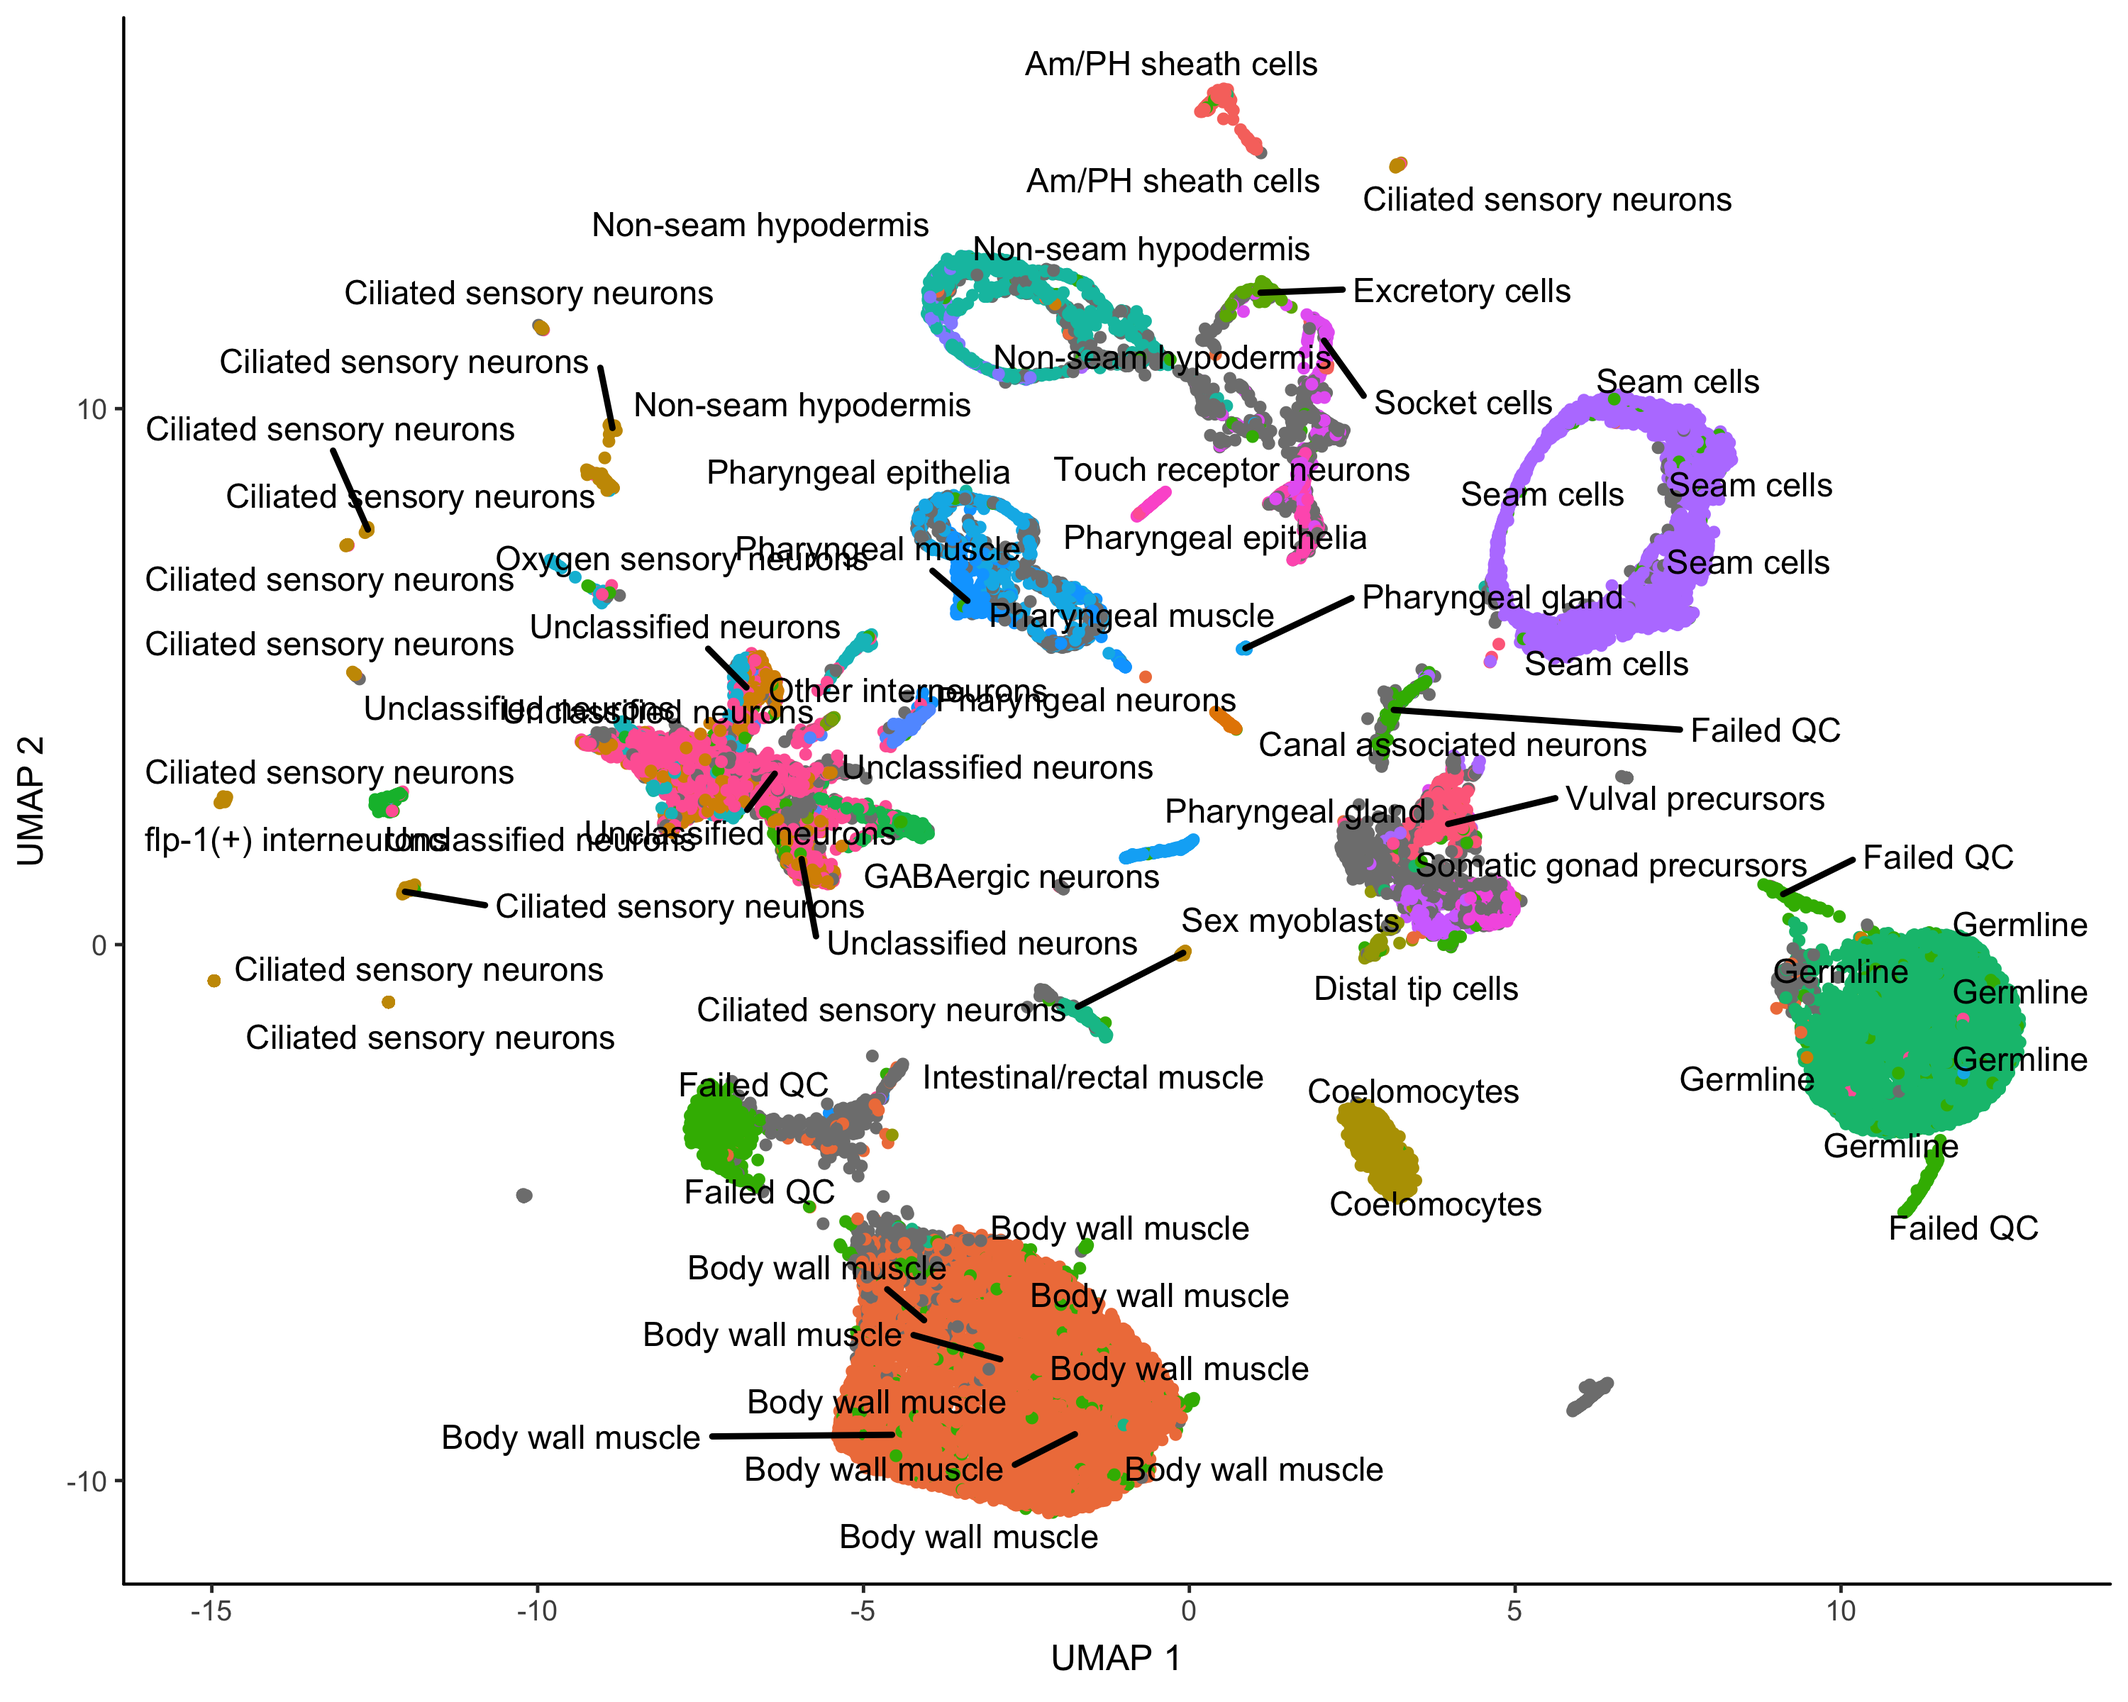
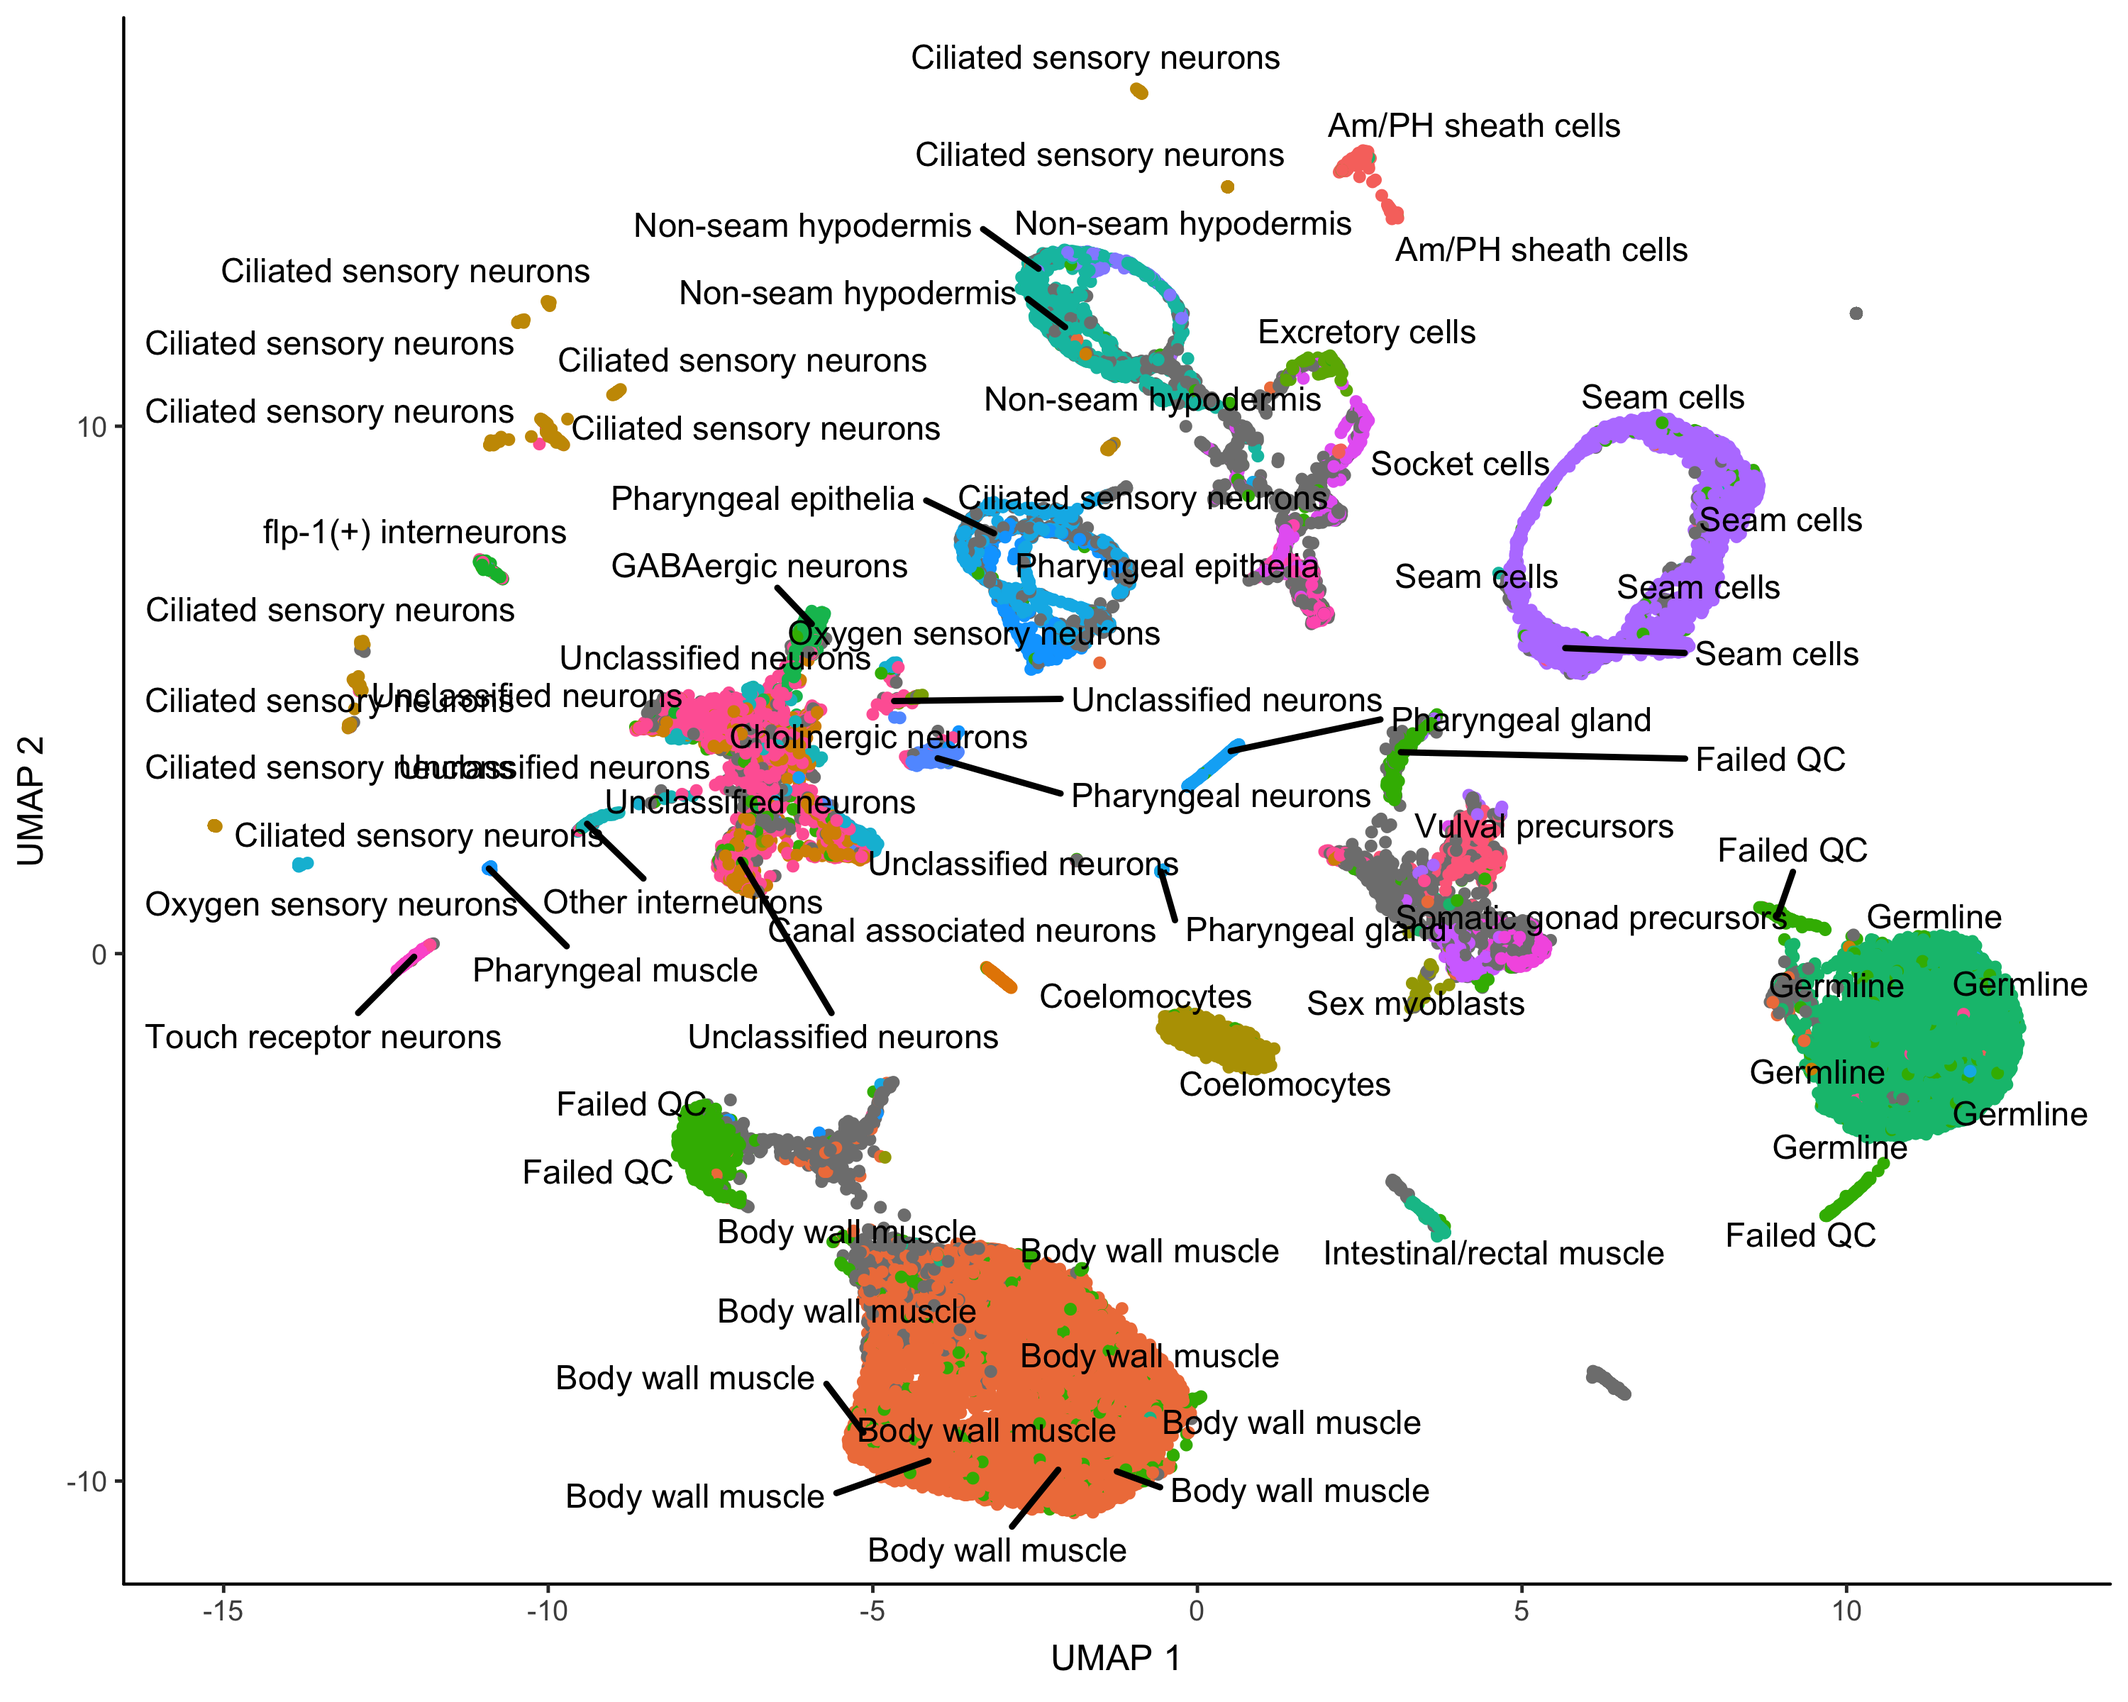
website updates related to top_markers() revamp

diff --git a/monocle3_new_docs.html b/monocle3_new_docs.html
@@ -15,14 +15,13 @@ tags: [monocle, manual, vignette]
   <body  data-spy= "scroll" data-target= "#toc">
     {% include header.html %}
 
-<div class= "container">
-<div class= "row">
-<!-- sidebar, which will move to the top on a small screen -->
-<div class= "col-sm-4">
-  <nav id= "toc" data-spy= "affix" data-toggle= "toc"></nav>
-</div>
-<!-- main content area -->
-<div class= "col-sm-8">
+    <div class= "container">
+    <div class= "row">
+    <div class= "col-sm-4">
+      <nav id= "toc" data-spy= "affix" data-toggle= "toc"></nav>
+    </div>
+    <!-- main content area -->
+    <div class= "col-sm-8">
 
 <h2>Introduction</h2>
 
@@ -427,11 +426,23 @@ plot_cells(cds, color_cells_by="cao_cell_type")
 <div class= "text-center">
   <img src= "{{site.baseurl}}/images/manual_images/L2_umap_color_by_cao_type.png" width= 760>
 </div>
+
 <p>You can see that many of the cell types land very close to one another in the UMAP plot.</p>
 
 <p>Except for a few cases described in a moment, <code>color_cells_by</code> can be the name of any column in <code>colData(cds)</code>. Note that when <code>color_cells_by</code> is a categorical variable, labels are added to the plot, with each label positioned roughly in the middle of all the cells that have that label.</p>
 
+<p>You can also color your cells according to how much of a gene or set of genes they express:</p>
 
+{% highlight R %}
+plot_cells(cds, genes=c("cpna-2", "egl-21", "ram-2", "inos-1"))
+{% endhighlight %}
+
+
+
+
+<div class= "text-center">
+    <img src= "{{site.baseurl}}/images/manual_images/L2_umap_gene_markers.png" width= 760>
+  </div>
 
 <div class= "panel panel-info">
 <div class= "panel-heading">
@@ -553,21 +564,23 @@ marker_test_res = top_markers(cds, group_cells_by="partition", reference_cells=1
 <p></p>The data frame <code>marker_test_res</code> contains a number of metrics for how specifically expressed each gene is in each partition. We could group the cells according to cluster, partition, or any categorical variable in <code>colData(cds)</code>. You can rank the table according to one or more of the specificity metrics and take the top gene for each cluster. For example, <code>pseudo_R2</code> is one such measure. We can rank markers according to <code>pseudo_R2</code> like this:
 
 {% highlight R %}
-top_specific_markers = marker_test_res %>% 
-    filter(marker_test_q_value < 0.05 & pseudo_R2 > 0.01) %>%
-    group_by(cell_group) %>% 
+top_specific_markers = marker_test_res %>%
+    filter(fraction_expressing >= 0.10) %>%
+    group_by(cell_group) %>%
     top_n(1, pseudo_R2)
 
 top_specific_marker_ids = unique(top_specific_markers %>% pull(gene_id))
+
 {% endhighlight %}
 
 <p>Now, we can plot the expression and fraction of cells that express each marker in each group with the <code>plot_genes_by_group</code> function:</p>
 
 {% highlight R %}
-plot_genes_by_group(cds, 
-                    top_specific_marker_ids, 
-                    group_cells_by="partition", 
-                    ordering_type="cluster_row_col")
+plot_genes_by_group(cds,
+                    top_specific_marker_ids,
+                    group_cells_by="partition",
+                    ordering_type="maximal_on_diag",
+                    max.size=3)
 {% endhighlight %}
 
 <div class= "text-center">
@@ -576,17 +589,18 @@ plot_genes_by_group(cds,
 
 <p>It's often informative to look at more than one marker, which you can do just by changing the first argument to <code>top_n()</code>:</p>
 {% highlight R %}
-top_specific_markers = marker_test_res %>% 
-    filter(marker_test_q_value < 0.05 & pseudo_R2 > 0.01) %>%
-    group_by(cell_group) %>% 
+top_specific_markers = marker_test_res %>%
+    filter(fraction_expressing >= 0.10) %>%
+    group_by(cell_group) %>%
     top_n(3, pseudo_R2)
 
 top_specific_marker_ids = unique(top_specific_markers %>% pull(gene_id))
 
-plot_genes_by_group(cds, 
-                    top_specific_marker_ids, 
-                    group_cells_by="partition", 
-                    ordering_type="cluster_row_col")
+plot_genes_by_group(cds,
+                    top_specific_marker_ids,
+                    group_cells_by="partition",
+                    ordering_type="cluster_row_col",
+                    max.size=3)
 {% endhighlight %}
 
 <div class= "text-center">
@@ -717,10 +731,11 @@ colData(cds_subset)$assigned_cell_type = dplyr::recode(colData(cds_subset)$assig
 plot_cells(cds_subset, group_cells_by="cluster", color_cells_by="assigned_cell_type")
 {% endhighlight %}
 
-<p>Now we can transfer the annotations from the <code>cds_subset</code> object back to the full dataset:</p>
+<p>Now we can transfer the annotations from the <code>cds_subset</code> object back to the full dataset. We'll also filter out low-quality cells at this stage</p>
 
 {% highlight R %}
 colData(cds)[colnames(cds_subset),]$assigned_cell_type = colData(cds_subset)$assigned_cell_type
+cds = cds[,colData(cds)$assigned_cell_type != "Failed QC" | is.na(colData(cds)$assigned_cell_type )]
 plot_cells(cds, group_cells_by="partition", color_cells_by="assigned_cell_type", labels_per_group=5)
 {% endhighlight %}
 
@@ -740,57 +755,89 @@ assigned_type_marker_test_res = top_markers(cds,
                                             cores=8)
 {% endhighlight %}
 
+<p>Next, filter these markers according to how stringent you want to be:</p>
+{% highlight R %}
+# Require that markers have at least JS specificty score > 0.5 and 
+# be significant in the logistic test for identifying their cell type:
+garnett_markers = assigned_type_marker_test_res %>%
+    filter(marker_test_q_value < 0.01 & specificity >= 0.5) %>%
+    group_by(cell_group) %>%
+    top_n(5, marker_score)
+# Exclude genes that are good markers for more than one cell type:
+garnett_markers = garnett_markers %>% group_by(gene_short_name) %>% 
+    filter(n() == 1) 
+{% endhighlight %}
+
 <p>Then call <code>generate_garnett_marker_file</code>:</p>
 {% highlight R %}
-generate_garnett_marker_file(assigned_type_marker_test_res, file="./marker_file.txt")
+generate_garnett_marker_file(garnett_markers, file="./marker_file.txt")
 {% endhighlight %}
 
 <p><code>generate_garnett_marker_file</code></p> will produce a text file like this:
 {% highlight console %}
-> Cell type Pharyngeal epithelia
-expressed: abu-6, gon-2, pqn-2, eyg-1, cutl-21
+> Cell type Ciliated sensory neurons
+expressed: che-3, scd-2, C33A12.4, R102.2, F27C1.11
 
-> Cell type Pharyngeal muscle
-expressed: nspe-4, Y105C5B.5, Y52E8A.6
-
-> Cell type Neurons
-expressed: gei-18, htp-1, plk-3, F42G10.1, toca-2
-
-> Cell type Coelomocytes
-expressed: dig-1, prmn-1, inos-1, ZK593.3, C23H3.2, R11G1.6
-
-> Cell type Unknown 2
-expressed: cdk-1, Y49E10.4, D2024.4
-
-> Cell type Pharyngeal gland
-expressed: lys-8, C14B4.2
-
-> Cell type Unknown
-expressed: plk-1, nspc-20, nspc-15
-
-> Cell type Germline
-expressed: htp-2, mei-2, C56A3.8, Y57A10A.3, C16C8.13, EEED8.13, ztf-28, bath-4, K12H6.2
-
-> Cell type Failed QC
-expressed: T20B6.3, pqn-29, R13H4.8, T01B7.8, C04G6.7, C27A2.5, pqn-67, F41G3.3, Y47D3B.6, F41E6.11
-
-> Cell type Intestinal/rectal muscle
-expressed: mls-1, C15C8.6
-
-> Cell type Body wall muscle
-expressed: rme-2, T20D4.12
-
-> Cell type Sex myoblasts
-expressed: grd-14
+> Cell type Non-seam hypodermis
+expressed: col-14, col-180, F11E6.3, grsp-1, C06A8.3
 
 > Cell type Seam cells
-expressed: nhr-73, trcs-1, F54B11.10, W08G11.1
+expressed: col-65, col-77, col-107, ram-2, Y47D7A.13
+
+> Cell type Vulval precursors
+expressed: col-68, col-145, lin-31, osm-11, Y62E10A.19
+
+> Cell type Body wall muscle
+expressed: csq-1, hum-9, cpna-2, tag-278, F41C3.5
+
+> Cell type Coelomocytes
+expressed: cup-4, inos-1, Y73F4A.1, ZC116.3, aman-1
+
+> Cell type flp-1 interneurons
+expressed: daf-10, flp-1, nlp-10, zig-2, H05L03.3
+
+> Cell type Sex myoblasts
+expressed: egl-15, C04E12.2
+
+> Cell type Intestinal/rectal muscle
+expressed: egl-20, lbp-2, bgal-1, ttr-10, T23B12.8
 
 > Cell type Am/PH sheath cells
-expressed: ZK822.4, T02B11.3, far-8, T11B7.5, vap-1, Y54G2A.10, R13D7.2, F11C7.2, K09C6.9, F52E1.2
+expressed: far-8, F35B12.9, ZK822.4, F20A1.1, T02B11.3
+
+> Cell type Oxygen sensory neurons
+expressed: flp-17, gcy-9, gcy-33, ist-1, Y57G11B.97
+
+> Cell type Pharyngeal neurons
+expressed: flr-2, nlp-6, F14B6.2, degt-1, flp-28
+
+> Cell type Unclassified neurons
+expressed: gar-2, madd-4, twk-49
+
+> Cell type Germline
+expressed: gld-1, pgl-1, ppw-2, prg-2, cbd-1
+
+> Cell type Somatic gonad precursors
+expressed: inx-9, mnm-2, C36B7.4
+
+> Cell type Touch receptor neurons
+expressed: mec-1, mec-7, mec-12, mec-17, mec-18
+
+> Cell type Pharyngeal epithelia
+expressed: pgp-14, pqn-74, fipr-2, R03C1.1, Y73F4A.2
+
+> Cell type Pharyngeal muscle
+expressed: pqn-29, F31D4.5, R13H4.8, T01B7.8, T20B6.3
+
+> Cell type Pharyngeal gland
+expressed: F15A4.6, dod-6, C49G7.3, M04G7.1, phat-4
+
+> Cell type Canal associated neurons
+expressed: acbp-6, Y66D12A.14, ZC412.4, C32E8.6, C41A3.1
 {% endhighlight %}
 
-<p>You may want to edit this file to add or remove markers based on literature or other information.</p>
+<p>The marker files produced by <code>generate_garnett_marker_file()</code> are just a starting point for classifying your cells with Garnett. You may want to edit this file to add or remove markers based on literature or other information. You also should consider defining subtypes of cells, which can greatly increase the usefulness and accuracy of Garnett. For example, the L2 data contains many different types of neurons. Making a "Neuron" cell type in the file above and then using the <code>subtype of</code> keyword to organize the various subtypes of neurons will make Garnett more able to recognize them and distinguish them from non-neuronal cell types. When two or more of your cell types share most of their top markers in <code>plot_genes_by_group()</code>, consider defining a broader cell type definition of which they are both subtypes. You might also want to define markers for the various subtypes of neurons by subsetting the <code>cds</code> object above and running <code>top_markers()</code> just on them. See the Garnett <a href="https://cole-trapnell-lab.github.io/garnett/docs/">documentation</a> for more on how you can enrich your marker files.</p>
+
 <p>When you're ready run Garnett, load the package:</p>
 {% highlight R %}
 library(garnett)
@@ -808,9 +855,29 @@ worm_classifier <- train_cell_classifier(cds = cds,
                                          cores=8)
 {% endhighlight %}
 
+<p>Now that we've trained a classifier <code>worm_classifier</code>, we can use it to annotate the L2 cells according to type:</p>
+{% highlight R %}
+cds = classify_cells(cds, worm_classifier,
+                           db = org.Ce.eg.db::org.Ce.eg.db,
+                           cluster_extend = TRUE,
+                           cds_gene_id_type = "ENSEMBL")
+{% endhighlight %}
+
+<p>Here's how Garnett annotated the cells:</p>
+
+{% highlight R %}
+plot_cells(cds,  
+           group_cells_by="partition", 
+           color_cells_by="cluster_ext_type")
+{% endhighlight %}
+
+<div class= "text-center">
+    <img src= "{{site.baseurl}}/images/manual_images/L2_umap_corrected_garnett_ext_type.png" width= 760>
+</div>
+  
 <p>Garnett classifiers can be applied to datasets other than the one they were trained on. We strongly encourage you to <a href="https://cole-trapnell-lab.github.io/garnett/docs/#submitting-a-classifier">share</a> your Garnett files and include them with your papers so that others can use them.</p> 
 
-<p>We trained a Garnett model to classify <emph>C. elegans</emph> cells based on the L2 data. You can classify cells with it by first downloading and then passing it to the <code>classify_cells()</code> function:</p>
+<p>As part of writing a paper about Garnett, we trained a Garnett model to classify <emph>C. elegans</emph> cells based on the L2 data. You can classify cells with it by first downloading and then passing it to the <code>classify_cells()</code> function:</p>
 
 {% highlight R %}
 load(url("https://cole-trapnell-lab.github.io/garnett/classifiers/ceWhole"))
@@ -818,18 +885,7 @@ cds = classify_cells(cds, ceWhole,
                            db = org.Ce.eg.db,
                            cluster_extend = TRUE,
                            cds_gene_id_type = "ENSEMBL")
-plot_cells(cds, color_cells_by="cluster_ext_type")
 {% endhighlight %}
-
-<p>Here's how Garnett annotated the cells:</p>
-
-{% highlight R %}
-plot_cells(cds, color_cells_by="cluster_ext_type")
-{% endhighlight %}
-
-<div class= "text-center">
-    <img src= "{{site.baseurl}}/images/manual_images/L2_umap_corrected_garnett_ext_type.png" width= 760>
-</div>
   
 <!-- {% highlight R %}
 # Plot the overlap between clusters and annotated cell types:
